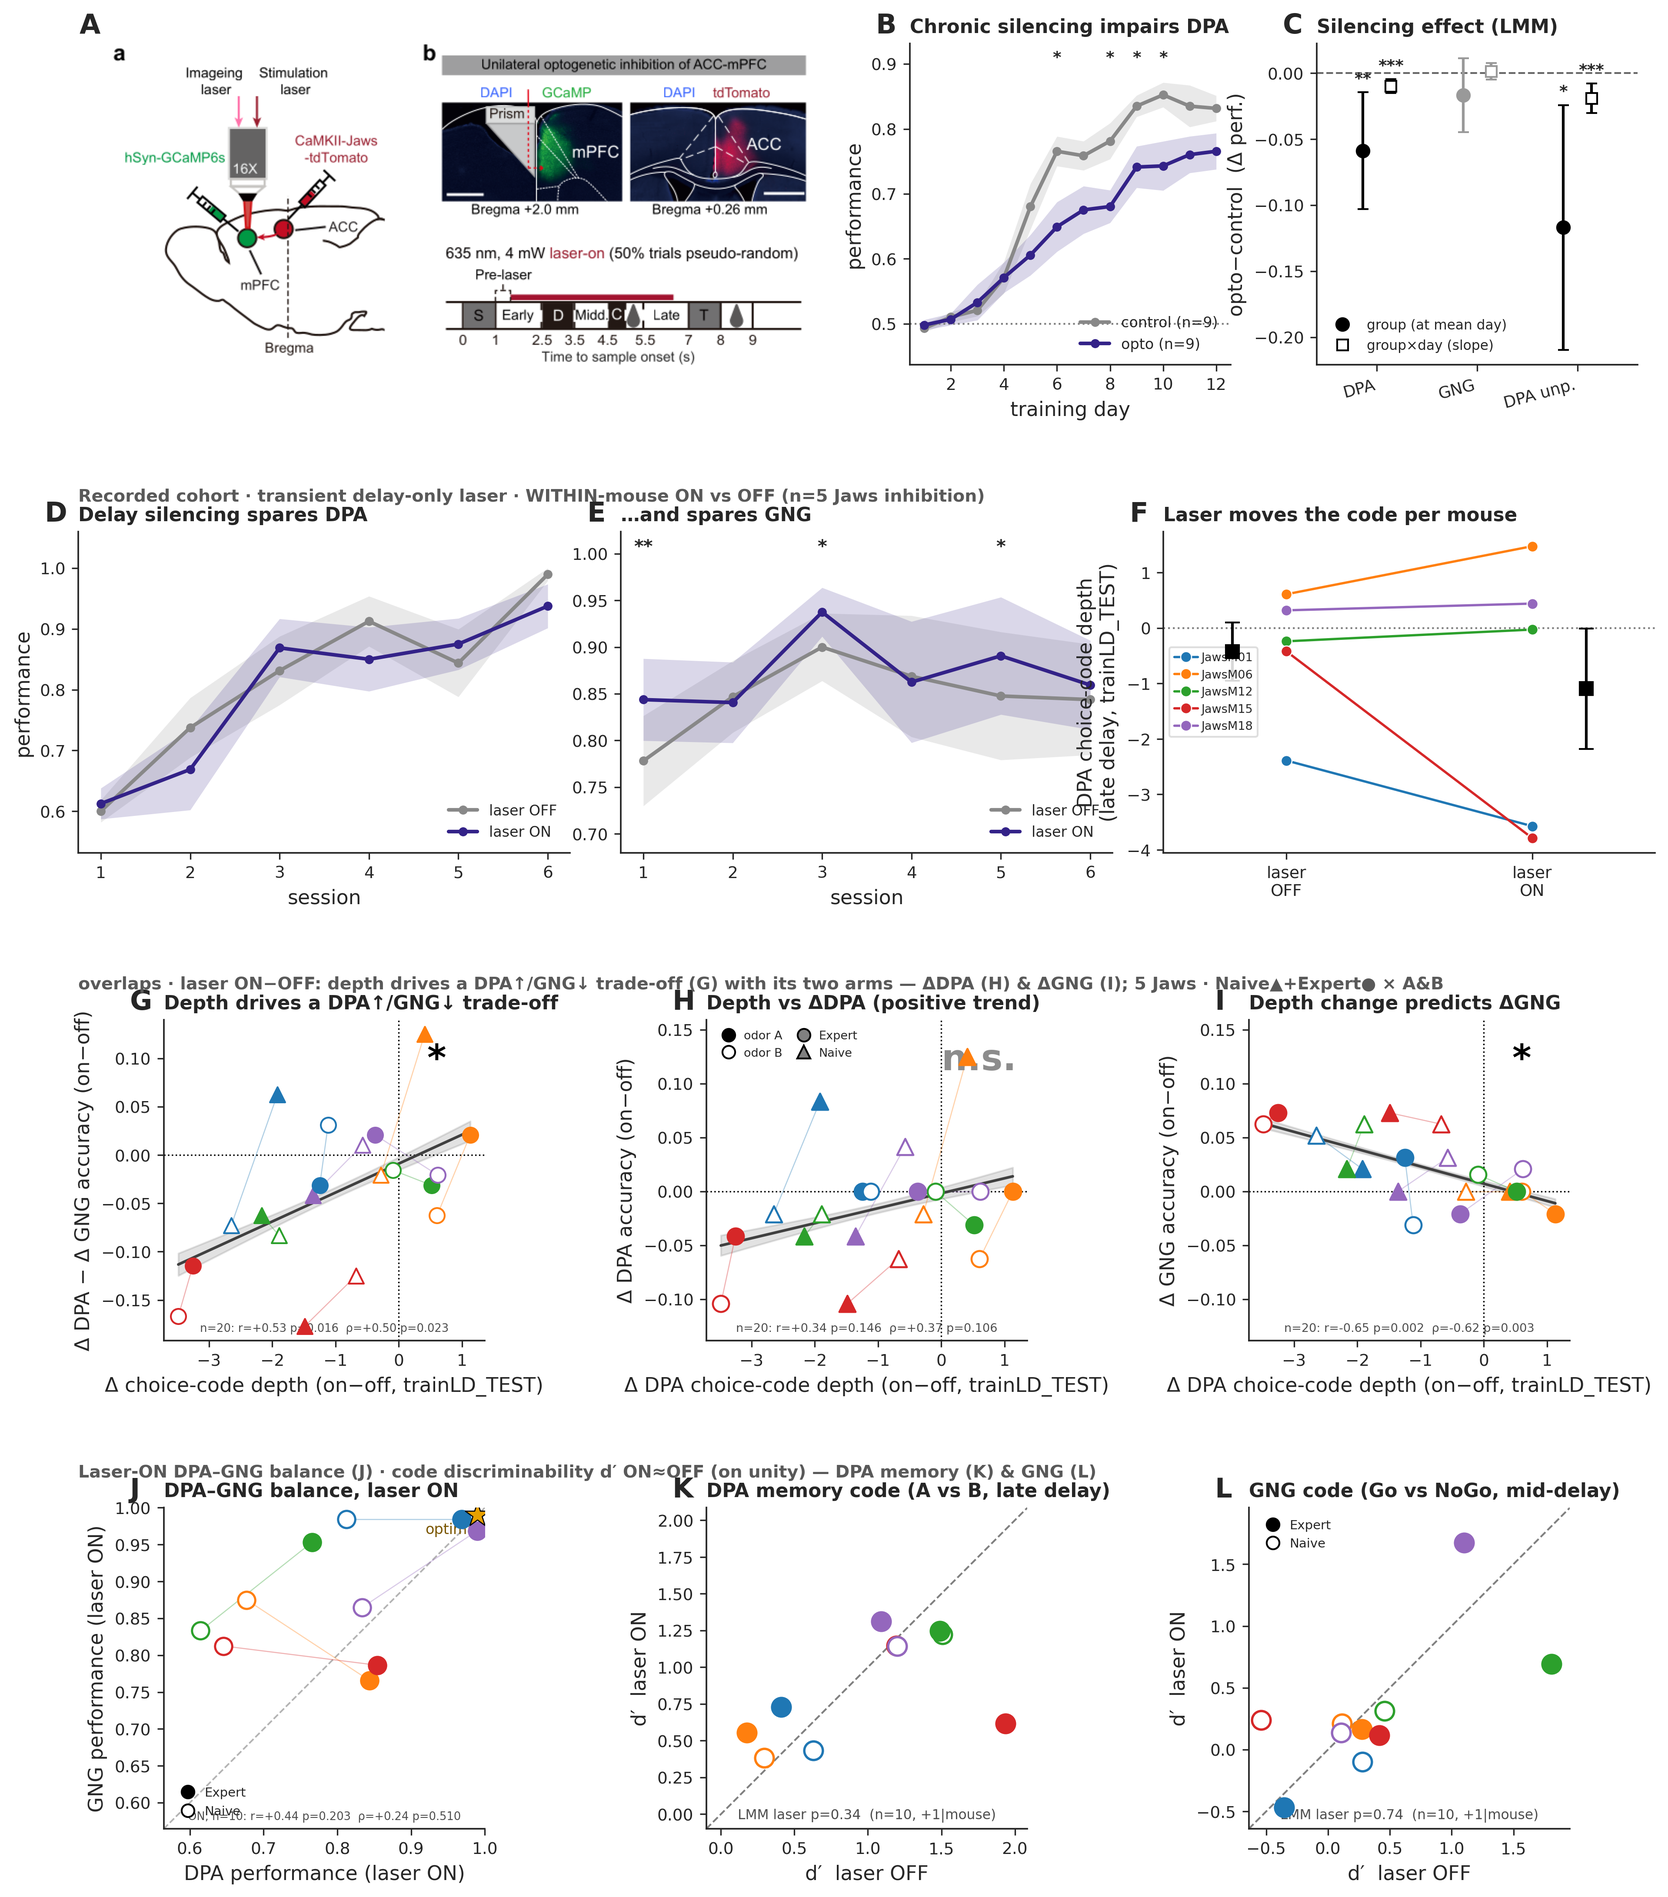
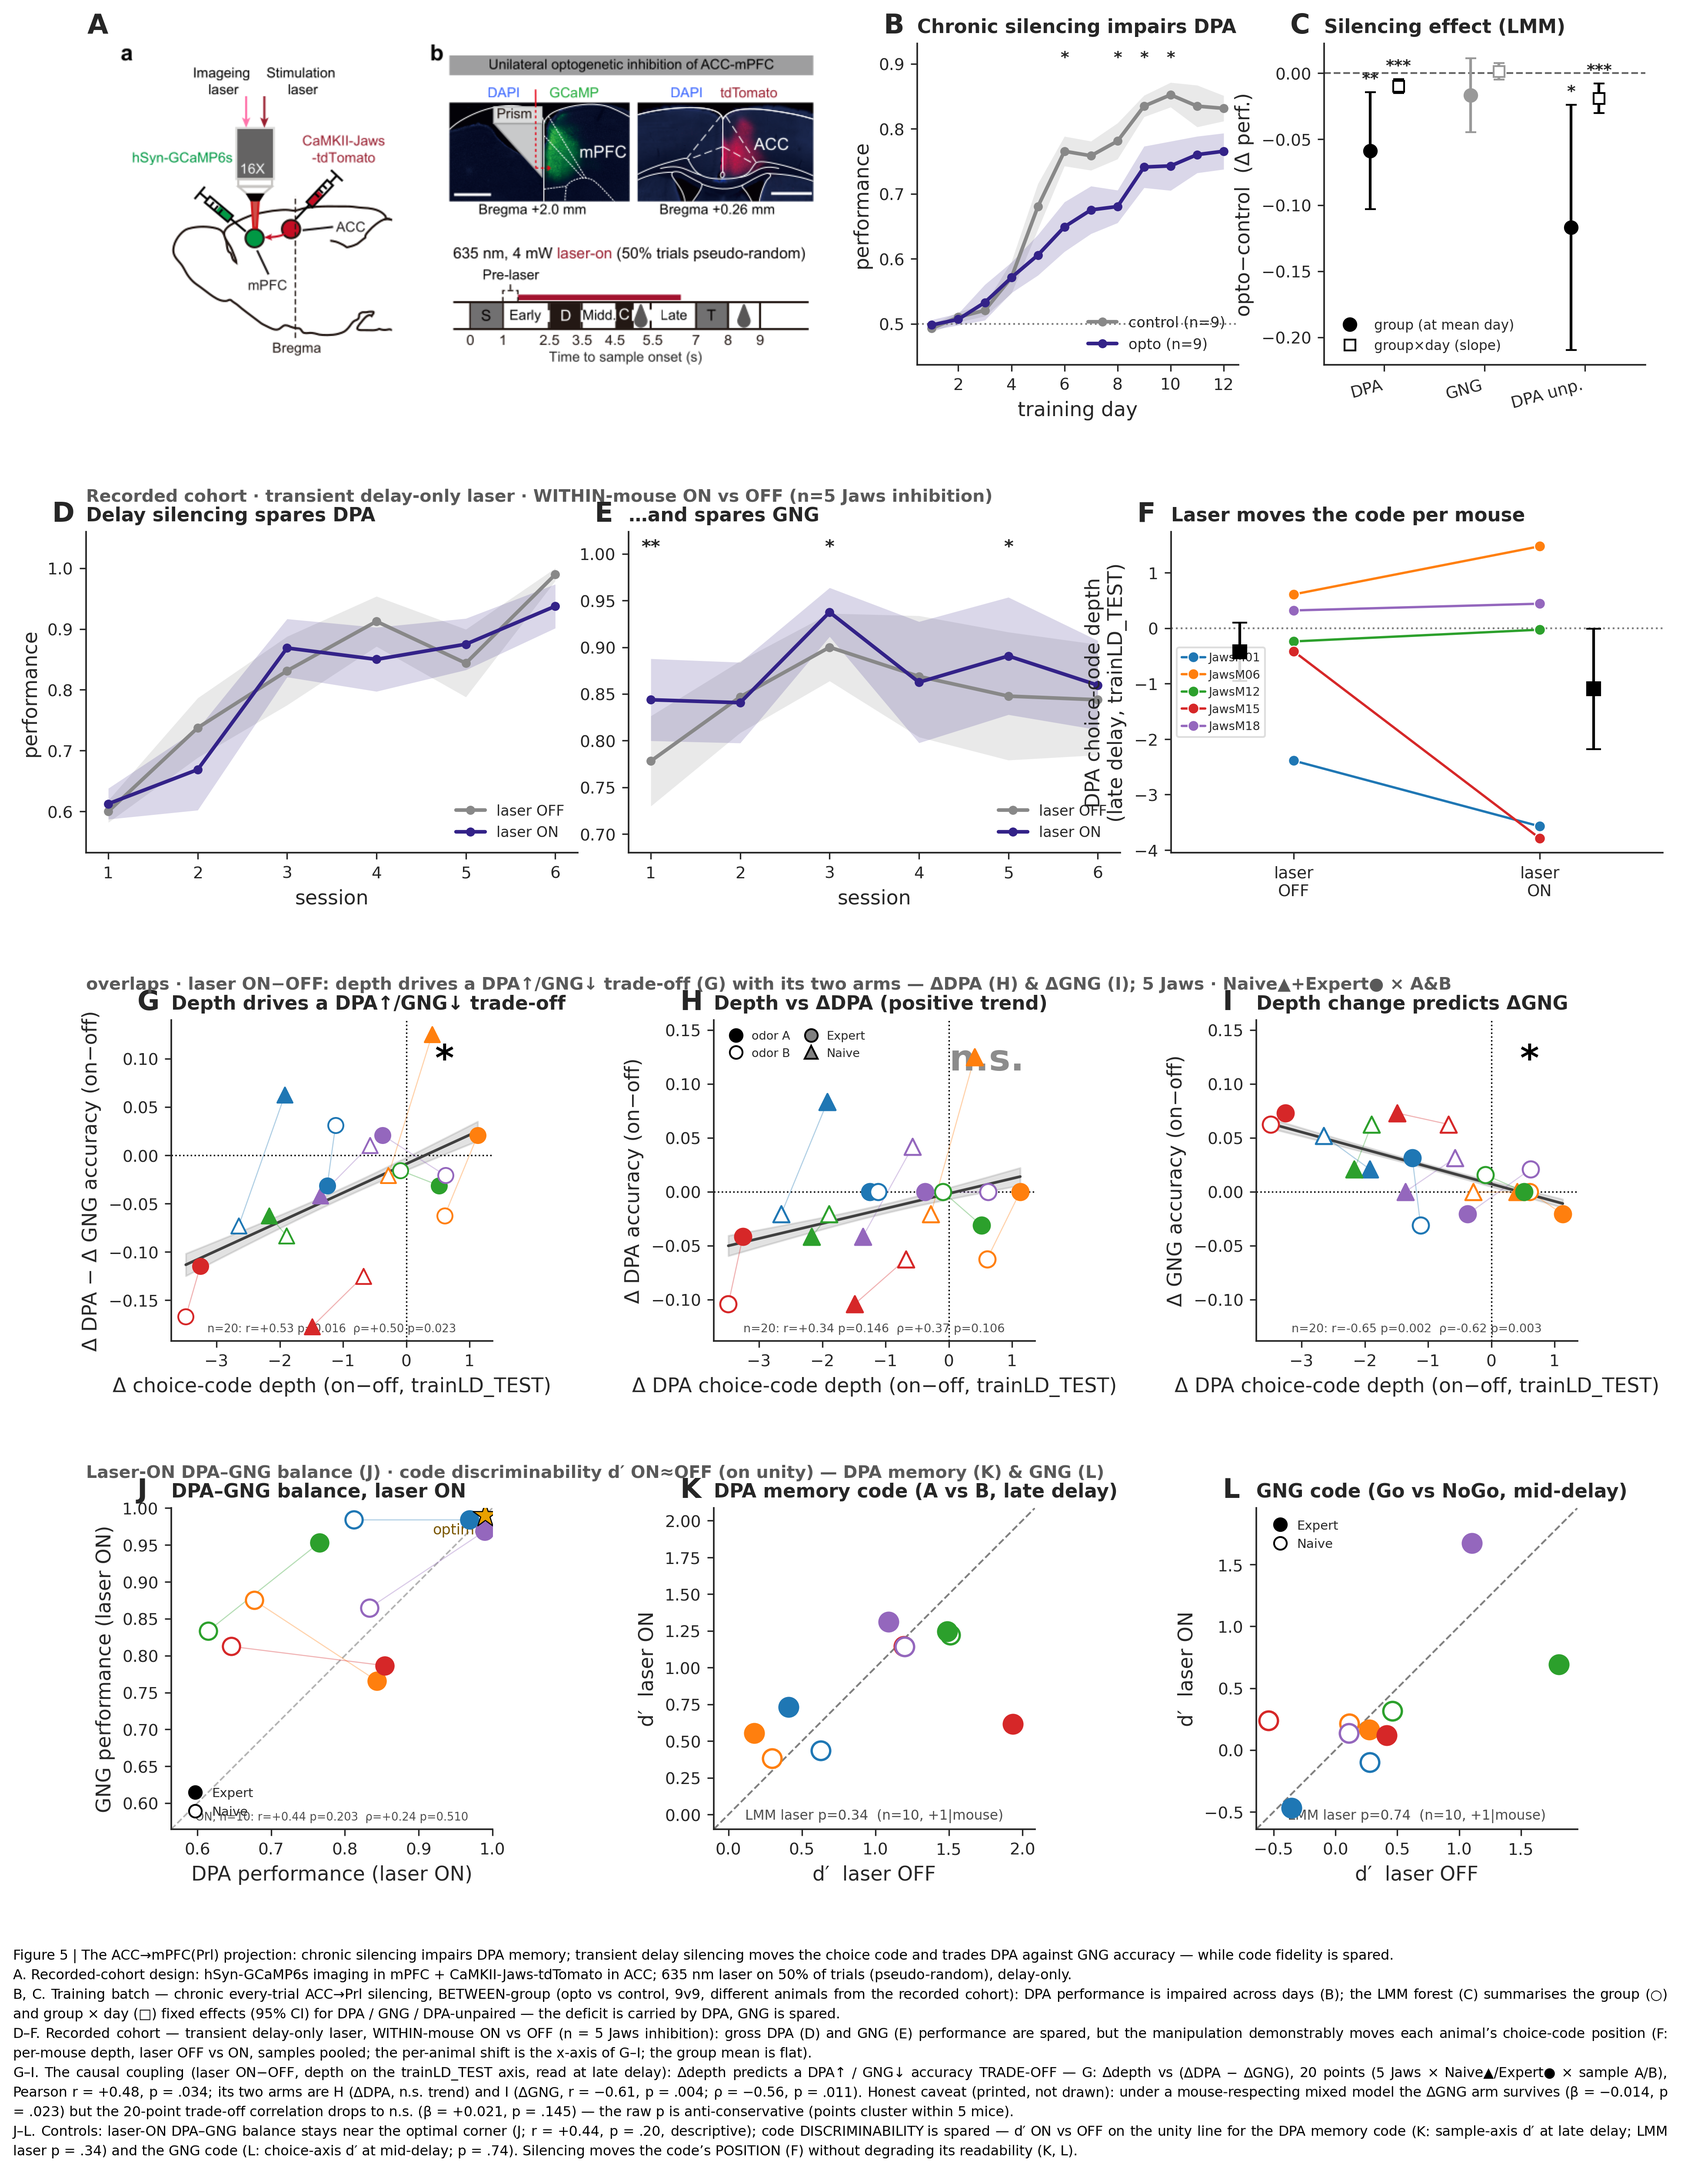
Figs 1/4/5: justified in-figure captions (canonical builds)
All five main figures now carry the Fig 2/3-style justified caption
(pca/figcaption.draw_justified; text in each script's CAP_PARAS). Fig 1 folds its
old footnote into the caption title and reads the F-forest / GEE / balance stats
off the render; Fig 4's numbers are verified against fresh render prints (incl.
the n.s. FA/CR control and the unchanged d'); Fig 5 carries its header stats
including the mixed-model caveat on the trade-off correlation. Variant builds
append a [BUILD VARIANT] tag; the poster build of Fig 5 skips the caption.

Claude-Session: https://claude.ai/code/session_01U5815xHXRaRQ7YCxMTgCsM

diff --git a/overlaps/fig_behavior_opto_main.py b/overlaps/fig_behavior_opto_main.py
@@ -853,6 +853,44 @@ if not POSTER:                                     # banners describe the full-f
     row_banner(axL, 'overlaps · laser ON−OFF: depth drives a DPA↑/GNG↓ trade-off (G) with its two arms — ΔDPA (H) & ΔGNG (I); 5 Jaws · Naive▲+Expert● × A&B')
     row_banner(axBal, 'Laser-ON DPA–GNG balance (J) · code discriminability d′ ON≈OFF (on unity) — DPA memory (K) & GNG (L)')
 
+# ── CAPTION (justified, drawn below — same mechanism as Figs 2/3; skip on the poster build) ──
+if not POSTER:
+    CAP_PARAS = [
+        'Figure 5 | The ACC→mPFC(Prl) projection: chronic silencing impairs DPA memory; transient '
+        'delay silencing moves the choice code and trades DPA against GNG accuracy — while code '
+        'fidelity is spared.',
+        'A. Recorded-cohort design: hSyn-GCaMP6s imaging in mPFC + CaMKII-Jaws-tdTomato in ACC; '
+        '635 nm laser on 50% of trials (pseudo-random), delay-only.',
+        'B, C. Training batch — chronic every-trial ACC→Prl silencing, BETWEEN-group (opto vs '
+        'control, 9v9, different animals from the recorded cohort): DPA performance is impaired '
+        'across days (B); the LMM forest (C) summarises the group (○) and group × day (□) fixed '
+        'effects (95% CI) for DPA / GNG / DPA-unpaired — the deficit is carried by DPA, GNG is '
+        'spared.',
+        'D–F. Recorded cohort — transient delay-only laser, WITHIN-mouse ON vs OFF (n = 5 Jaws '
+        'inhibition): gross DPA (D) and GNG (E) performance are spared, but the manipulation '
+        'demonstrably moves each animal’s choice-code position (F: per-mouse depth, laser OFF vs '
+        'ON, samples pooled; the per-animal shift is the x-axis of G–I; the group mean is flat).',
+        'G–I. The causal coupling (laser ON−OFF, depth on the trainLD_TEST axis, read at late '
+        'delay): Δdepth predicts a DPA↑ / GNG↓ accuracy TRADE-OFF — G: Δdepth vs (ΔDPA − ΔGNG), '
+        '20 points (5 Jaws × Naive▲/Expert● × sample A/B), Pearson r = +0.48, p = .034; its two '
+        'arms are H (ΔDPA, n.s. trend) and I (ΔGNG, r = −0.61, p = .004; ρ = −0.56, p = .011). '
+        'Honest caveat (printed, not drawn): under a mouse-respecting mixed model the ΔGNG arm '
+        'survives (β = −0.014, p = .023) but the 20-point trade-off correlation drops to n.s. '
+        '(β = +0.021, p = .145) — the raw p is anti-conservative (points cluster within 5 mice).',
+        'J–L. Controls: laser-ON DPA–GNG balance stays near the optimal corner (J; r = +0.44, '
+        'p = .20, descriptive); code DISCRIMINABILITY is spared — d′ ON vs OFF on the unity line '
+        'for the DPA memory code (K: sample-axis d′ at late delay; LMM laser p = .34) and the '
+        'GNG code (L: choice-axis d′ at mid-delay; p = .74). Silencing moves the code’s '
+        'POSITION (F) without degrading its readability (K, L).',
+    ]
+    if _SUF:
+        CAP_PARAS[0] += (f' [BUILD VARIANT {_SUF}: panel annotations carry this build’s own '
+                         'statistics; the numbers quoted here are the canonical trainLD_TEST '
+                         'build.]')
+    sys.path.insert(0, '/home/leon/dual/pca')
+    from figcaption import draw_justified              # shared with Figs 2/3
+    draw_justified(fig, CAP_PARAS, fontsize=7.6)
+
 for ext in ('png', 'svg'):
     p = f'{OUT}/{ext}/behavior_opto_main{_SUF}{"_poster" if POSTER else ""}.{ext}'
     fig.savefig(p, bbox_inches='tight'); print('saved', os.path.abspath(p))

diff --git a/overlaps/fig_overlaps_main_native.py b/overlaps/fig_overlaps_main_native.py
@@ -337,6 +337,42 @@ if __name__ == '__main__':
     panel_letter(axD, 'D', x=0.5)
     panel_letter(axDp, 'E', x=0.72)
 
+    # ── CAPTION (justified, drawn below — same mechanism as Figs 2/3) ──
+    CAP_PARAS = [
+        'Figure 4 | What learning does on the manifold: the distractor code aligns onto the '
+        'choice axis, the memory state is pushed along it, and the push predicts behaviour — '
+        'while code fidelity is unchanged.',
+        'A. Learning couples the dist and choice codes. Left: dist ↔ choice cross-decoding '
+        'matrices (balanced accuracy, Naive | Expert; chance-referenced off/within summary with '
+        'bootstrap CI under each — 0.33 [−0.03, 0.60] → 0.57 [0.36, 0.75]). Right: the '
+        'per-animal tests, Naive (x) vs Expert (y): the raw |cos|(choice, dist) grows '
+        '(0.073 → 0.114, ∗ p = .008) and so does the cross-decode accuracy (0.53 → 0.61, '
+        '∗ p = .004) — both starred tests are robust across decoder pipelines and are drawn '
+        'from the fixed canonical no-PCA caches in every build variant of this figure.',
+        'B. The no-lick push: sample × choice trajectory planes (Naive | Expert) with the '
+        'late-delay choice-code distributions (strips), and the per-mouse late-delay depth: '
+        'with learning the DPA delay state deepens along the choice axis into the no-lick '
+        'region (LMM β = −0.74, p = .046 ∗). Per-animal, the deepening is a trend carried by '
+        'sample A (Δ = −1.42, p = .098; sample B Δ ≈ 0; the A-vs-B difference is itself n.s., '
+        'p = .055).',
+        'C. The deepening predicts behaviour BETWEEN animals (per-mouse n = 9 Spearman): '
+        'Δdepth ↔ ΔDPA accuracy ρ = −0.83, p = .005 ∗; the ΔGNG arm is null (ρ = +0.20, '
+        'p = .61) — the coupling is specific to the memory task.',
+        'D. Control — Naive nonpaired trials, correct rejections vs false alarms on the no-lick '
+        'well depth: n.s. on this axis for both samples (A: Δ(CR−FA) = −1.16, p = .27; '
+        'B: +0.73, p = .47).',
+        'E. Fidelity control: the choice-code d′ is unchanged with learning (0.80 → 1.07, '
+        'p = .25) — learning moves the state’s position along the axis, not the readability of '
+        'the code.',
+    ]
+    if FILE_SUF != '_dpaact':
+        CAP_PARAS[0] += (f' [BUILD VARIANT {FILE_SUF}: panel annotations carry this build’s own '
+                         'statistics; the numbers quoted here are the canonical action-axis '
+                         'pooled-evoked build.]')
+    sys.path.insert(0, '/home/leon/dual/pca')
+    from figcaption import draw_justified              # shared with Figs 2/3
+    draw_justified(fig, CAP_PARAS)
+
     OUT = 'figures/overlaps/main/eqnorm' if EQNORM else 'figures/overlaps/main'
     os.makedirs(f'{OUT}/png', exist_ok=True); os.makedirs(f'{OUT}/svg', exist_ok=True)
     for ext in ('png', 'svg'):

diff --git a/overlaps/fig_behavior_main.py b/overlaps/fig_behavior_main.py
@@ -375,9 +375,35 @@ for _ax, _L in [(axAm, 'A'), (axB, 'B'), (axC, 'C'), (axD, 'D'),
                 (axE, 'E'), (axF, 'F'), (axG, 'G'), (axH, 'H')]:
     panel_letter(_ax, _L)
 
-fig.text(0.5, 0.004, 'Recorded cohort, 9 mice, laser OFF · mean ± SEM · '
-         '* p<.05  ** p<.01  *** p<.001',
-         ha='center', va='bottom', fontsize=7.5, color='0.45')
+# ── CAPTION (justified, drawn below — same mechanism as Figs 2/3; replaces the old footnote) ──
+CAP_PARAS = [
+    'Figure 1 | The dual task: DPA working memory learned alongside a Go/NoGo distractor — with '
+    'structured interference between the two. Recorded cohort, 9 mice, laser-off trials; '
+    'mean ± SEM; ∗ p < .05, ∗∗ p < .01, ∗∗∗ p < .001.',
+    'A. Task scheme: every trial poses a DPA working-memory problem (sample odor A/B → delay → '
+    'test odor C/D; lick on the paired match); on dual trials a Go/NoGo distractor odor and '
+    'response cue are interleaved into the delay. DPA / DualGo / DualNoGo trials are interleaved '
+    'within sessions.',
+    'B–E. Learning curves (per-mouse/day accuracy; per-day stars are uncorrected per-day LMMs): '
+    'GNG is acquired quickly and saturates while DPA improves gradually and stays below it (B); '
+    'the GNG curves split by distractor identity, Go vs NoGo (C); the DPA deficit is carried by '
+    'the unpaired (no-lick) trials (D), and the unpaired deficit depends on task context — '
+    'pure DPA vs Go vs NoGo context (E).',
+    'F. Effect-size summary (LMM on per-mouse/day proportions, condition ● and condition × day □ '
+    'fixed effects ± 95% CI, random intercept per mouse): GNG > DPA (∗) with the gap narrowing '
+    'over days (∗∗∗); NoGo > Go (∗); unpaired < paired (∗∗∗) with the unpaired gap narrowing '
+    'over days (∗∗∗); Go-context DPA < pure DPA (∗).',
+    'G. The interference is behavioural and early: on dual DPA trials, an intrusive lick at the '
+    'distractor/cue predicts DPA errors in Naive (GEE, OR = 0.56, p = .006) but no longer in '
+    'Expert (OR = 0.76, p = .50) — thin lines = single mice.',
+    'H. Experts settle at a suboptimal balance: per-animal DPA vs GNG performance (Expert; '
+    'marker = opsin group, colour = mouse). No animal reaches the both-optimal corner (mean gap '
+    '0.18), and the two accuracies are uncorrelated across mice (r = +0.10, p = .80; ρ = +0.35, '
+    'p = .36, n = 9).',
+]
+sys.path.insert(0, '/home/leon/dual/pca')
+from figcaption import draw_justified                  # shared with Figs 2/3
+draw_justified(fig, CAP_PARAS, fontsize=9.0)
 
 for ext in ('png', 'svg'):
     p = f'{OUT}/{ext}/behavior_main.{ext}'

diff --git a/docs/overlaps/overview.md b/docs/overlaps/overview.md
@@ -897,3 +897,11 @@ method section above (`fig_overlaps_flow_empirical.py`).
 - **Fixed points**: mean of grand_mean_traj over BINS_LATE (NOT speed minimum)
 - **Flow field heatmap**: magma colormap, hybrid speed (BINS_LATE at fixed points, all-delay elsewhere)
 - **Condition naming**: `cond.replace('DualGo','Go').replace('DualNoGo','NoGo')`
+
+## 2026-08-31 Fig 4 in-figure caption
+`fig_overlaps_main_native.py` now draws a justified caption (pca/figcaption.draw_justified;
+CAP_PARAS in the script) with the canonical stats verified against the render prints: A align
+off/within 0.33→0.57, raw-cos ∗ .008 / cross-dec ∗ .004; B push LMM β=−0.74 p=.046 ∗ with the
+per-animal trend disclosed (A Δ=−1.42 p=.098, A-vs-B p=.055 n.s.); C coupling DPA ρ=−0.83
+p=.005 ∗ / GNG null; D FA/CR n.s. (p=.27/.47); E d′ 0.80→1.07 p=.25 unchanged. Variant builds
+(--robust/--antact) append a [BUILD VARIANT] tag stating the quoted numbers are canonical.

diff --git a/docs/behavior.md b/docs/behavior.md
@@ -466,3 +466,11 @@ per mouse: `perf ~ C(condition)*day_centred + (1|mouse)`. Per-day stars = per-da
 per-day Wilcoxon (multiplicity), binomial GEE (too conservative with 9 clusters),
 `BinomialBayesMixedGLM` (VB posterior overconfident, p≈1e-12). LMM RE variance sits near the
 boundary → treat as mildly anti-conservative.
+
+## 2026-08-31 in-figure captions (Figs 1 & 5)
+Both behaviour figures now draw a justified caption below the panels (same mechanism as Figs 2/3:
+`pca/figcaption.draw_justified`; caption text lives in each script's `CAP_PARAS`). Fig 1's old
+one-line footnote was folded into the caption title. Fig 5 keeps its row banners; its caption
+carries the header's exact stats (trade-off r=+0.48 p=.034 with the mixed-model caveat printed;
+K/L LMM p=.34/.74) and appends a [BUILD VARIANT] tag on the axis/norm variant builds (as does
+Fig 4). The poster build skips the caption.
